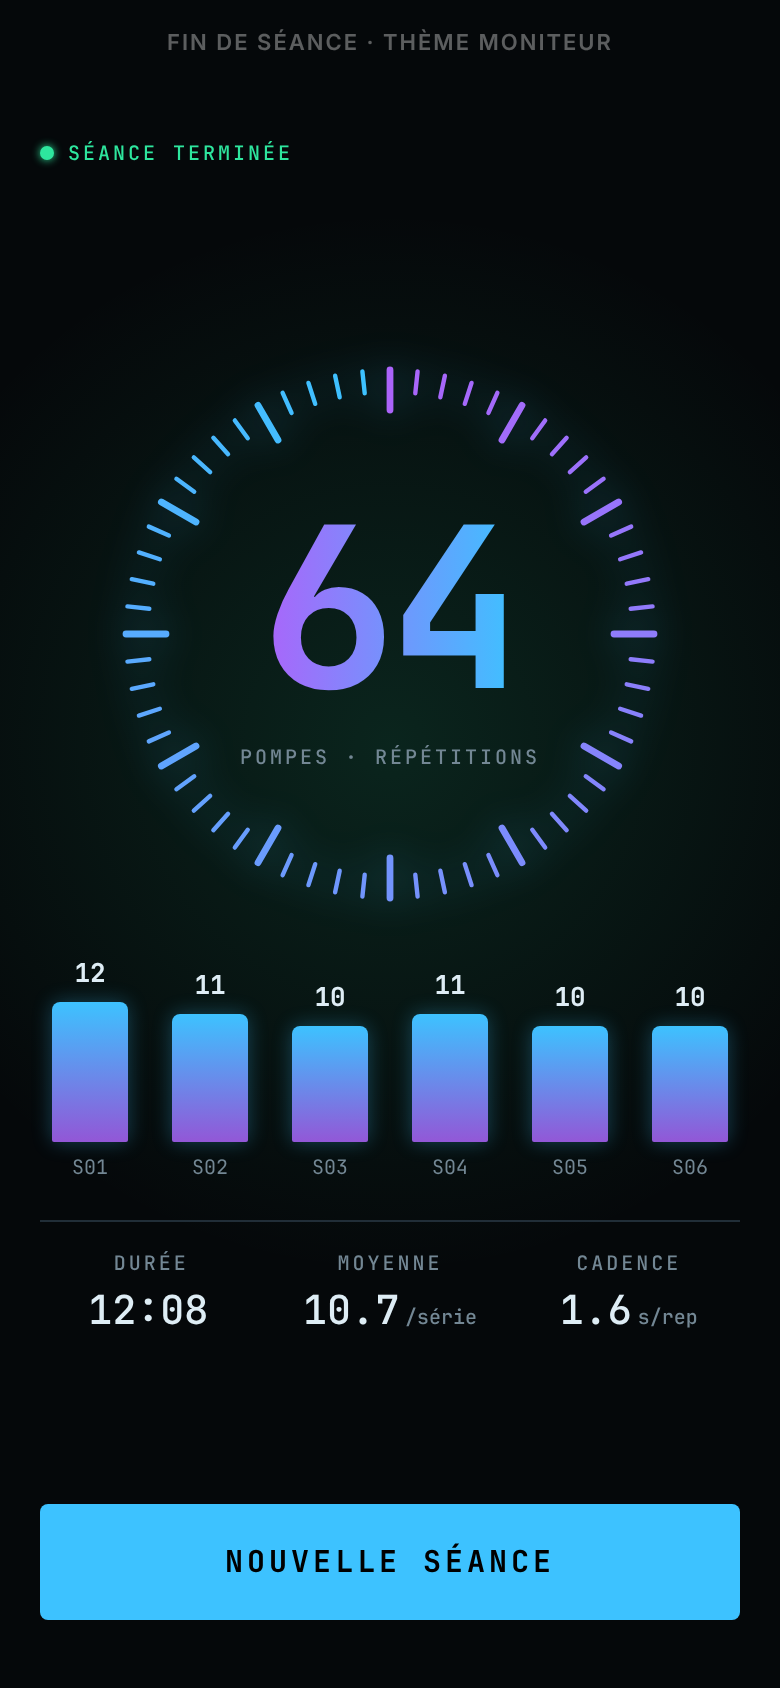
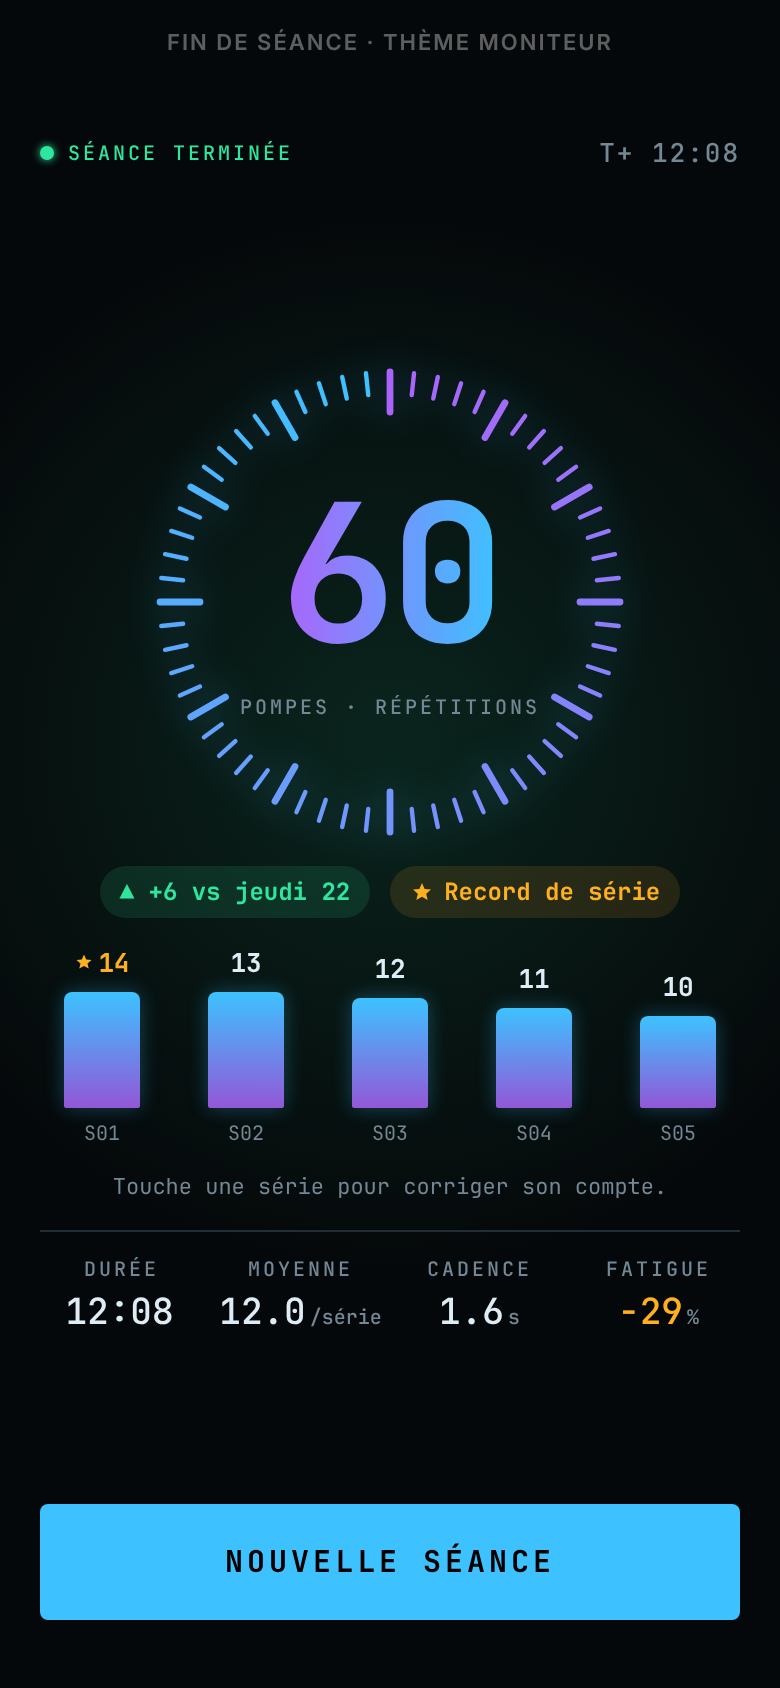
Maquettes de l'historique : fin de séance enrichie, historique, détail d'une séance
Comparaison avec la séance précédente, records, fatigue, correction d'une série ;
historique par exercice (semaine, records, volume, progression, régularité,
séances) ; détail d'une séance (séries, récupérations, rythme rep par rep).
À valider avant implémentation.

Claude-Session: https://claude.ai/code/session_01FagVhaB5BD4mhMTzHfe9fj

diff --git a/Design/mockups/screens.html b/Design/mockups/screens.html
@@ -51,6 +51,11 @@ const ICONS = {
   dumbbell: '<path d="M3 10 H17" stroke-width="2"/><rect x="3.5" y="5.5" width="3.4" height="9" rx="1" stroke="none"/><rect x="13.1" y="5.5" width="3.4" height="9" rx="1" stroke="none"/>',
   sparkles: '<path d="M10 3 L11.5 8.5 L17 10 L11.5 11.5 L10 17 L8.5 11.5 L3 10 L8.5 8.5 Z" stroke="none"/>',
   gear: '<circle cx="10" cy="10" r="2.6" fill="none" stroke-width="1.8"/><path d="M10 2.5 V5 M10 15 V17.5 M2.5 10 H5 M15 10 H17.5 M4.7 4.7 L6.5 6.5 M13.5 13.5 L15.3 15.3 M4.7 15.3 L6.5 13.5 M13.5 6.5 L15.3 4.7" stroke-width="2" stroke-linecap="round"/><circle cx="10" cy="10" r="5.6" fill="none" stroke-width="1.8"/>',
+  chart: '<rect x="3" y="10" width="3" height="7" rx="1" stroke="none"/><rect x="8.5" y="6" width="3" height="11" rx="1" stroke="none"/><rect x="14" y="3" width="3" height="14" rx="1" stroke="none"/>',
+  back: '<path d="M12.5 4.5 L7 10 L12.5 15.5" fill="none" stroke-width="2.2" stroke-linecap="round" stroke-linejoin="round"/>',
+  star: '<path d="M10 2.5 L12.2 7.4 L17.5 7.9 L13.5 11.4 L14.7 16.6 L10 13.9 L5.3 16.6 L6.5 11.4 L2.5 7.9 L7.8 7.4 Z" stroke="none"/>',
+  minus: '<path d="M5 10 H15" stroke-width="2.4" stroke-linecap="round"/>',
+  plus: '<path d="M5 10 H15 M10 5 V15" stroke-width="2.4" stroke-linecap="round"/>',
   chevron: '<path d="M5.5 8 L10 12.5 L14.5 8" fill="none" stroke-width="2" stroke-linecap="round" stroke-linejoin="round"/>',
   xmark: '<path d="M5 5 L15 15 M15 5 L5 15" stroke-width="2" stroke-linecap="round"/>',
   check: '<path d="M5 10.5 L8.5 14 L15 6.5" fill="none" stroke-width="2.4" stroke-linecap="round" stroke-linejoin="round"/>',
@@ -88,9 +93,11 @@ function render(t, s) {
     case "resting": html = resting(); break;
     case "finished": html = finished(); break;
     case "settings": html = settings(); break;
+    case "history": html = history(); break;
+    case "session": html = sessionDetail(); break;
   }
   document.getElementById("screen").innerHTML =
-    `<div class="phone ${t.scheme}" style="background:${backdrop};font-family:${F};color:${c.text}">
+    `<div class="phone ${t.scheme}" style="height:${s.height || 844}px;background:${backdrop};font-family:${F};color:${c.text}">
        <div class="caption">${s.caption || ""} · thème ${t.name}</div>${html}</div>`;
 
   // ——— Cadran ———
@@ -164,7 +171,7 @@ function render(t, s) {
     }).join("");
     const dots = EXERCISES.map((_, i) => `<span style="width:5px;height:5px;border-radius:50%;background:${i === index ? c.primary : hexA(c.dim, .45)}"></span>`).join("");
     const inner = side * 0.76, disc = side * 0.58;
-    return `<div class="top"><span></span>${iconBtn("gear")}</div>
+    return `<div class="top">${iconBtn("chart")}${iconBtn("gear")}</div>
       <div class="hero">
         ${ring({ lit: 60, colors: "pale", sweep: 17, content: `
           <div style="position:relative;width:${side}px;height:${side}px">
@@ -240,24 +247,168 @@ function render(t, s) {
     </div></div>`;
   }
 
+  // Fin de séance : total, comparaison avec la dernière séance, records, séries (corrigeables),
+  // et quatre mesures dont la fatigue.
   function finished() {
-    const sets = s.sets, max = Math.max(...sets);
-    const bars = sets.map((n, i) => `<div class="center" style="flex:1;gap:6px;justify-content:flex-end;height:100%">
-        <span style="font-size:13px;font-weight:700">${n}</span>
-        <div style="width:100%;max-width:38px;height:${Math.round(n / max * 70)}px;border-radius:${Math.min(r, 4)}px ${Math.min(r, 4)}px 1px 1px;
-             background:linear-gradient(180deg,${c.primary},${hexA(c.secondary, .85)});${glow ? `box-shadow:0 0 ${10 * glow}px ${hexA(c.primary, .3)}` : ""}"></div>
-        <span style="font-size:10px;color:${c.dim}">S${String(i + 1).padStart(2, "0")}</span></div>`).join("");
-    const stat = (name, value, unit = "") => `<div class="center" style="flex:1;gap:4px">${label(name)}
-        <span style="font-size:20px;font-weight:600">${value}<span style="font-size:10px;color:${c.dim};margin-left:3px">${unit}</span></span></div>`;
-    return `${status("Séance terminée", c.ok, "")}
-      <div class="hero" style="gap:20px">
-        ${ring({ lit: 60, size: 270, content: `
-          <div style="font-size:112px;font-weight:700;line-height:1;letter-spacing:-3px;background:linear-gradient(90deg,${c.secondary},${c.primary});-webkit-background-clip:text;color:transparent">${s.total}</div>
+    const sets = s.sets, max = Math.max(...sets), editing = s.editing;
+    const bars = sets.map((n, i) => {
+      const on = i === editing, record = s.recordSet === i;
+      return `<div class="center" style="flex:1;gap:6px;justify-content:flex-end;height:100%;position:relative">
+        <span class="row" style="gap:2px;font-size:13px;font-weight:700;color:${record ? c.warn : c.text}">${record ? icon("star", c.warn, 10) : ""}${n}</span>
+        <div style="width:100%;max-width:38px;height:${Math.round(n / max * 64)}px;border-radius:${Math.min(r, 4)}px ${Math.min(r, 4)}px 1px 1px;
+             background:${on ? c.text : `linear-gradient(180deg,${c.primary},${hexA(c.secondary, .85)})`};${glow ? `box-shadow:0 0 ${10 * glow}px ${hexA(c.primary, .3)}` : ""}"></div>
+        <span style="font-size:10px;color:${on ? c.text : c.dim}">S${String(i + 1).padStart(2, "0")}</span></div>`;
+    }).join("");
+    const stat = (name, value, unit = "", color = c.text) => `<div class="center" style="flex:1;gap:4px">${label(name)}
+        <span style="font-size:18px;font-weight:600;color:${color}">${value}<span style="font-size:10px;color:${c.dim};margin-left:2px">${unit}</span></span></div>`;
+    const corrector = editing != null ? `<div class="row" style="justify-content:center;gap:14px;padding:8px 12px;border:1px solid ${c.line};border-radius:${r}px;background:${c.panel}">
+        ${label(`Série ${String(editing + 1).padStart(2, "0")}`, c.text)}
+        <span style="width:36px;height:36px;border-radius:${r}px;border:1px solid ${c.line};display:flex;align-items:center;justify-content:center">${icon("minus", c.text, 14)}</span>
+        <span style="font-size:22px;font-weight:700;min-width:34px;text-align:center">${sets[editing]}</span>
+        <span style="width:36px;height:36px;border-radius:${r}px;border:1px solid ${c.line};display:flex;align-items:center;justify-content:center">${icon("plus", c.text, 14)}</span>
+        <span style="font-size:11px;color:${c.dim}">compté : ${sets[editing] + 1}</span></div>`
+      : `<div style="font-size:11px;color:${c.dim};text-align:center">Touche une série pour corriger son compte.</div>`;
+    return `${status("Séance terminée", c.ok, "T+ 12:08")}
+      <div class="hero" style="gap:14px">
+        ${ring({ lit: 60, size: 236, content: `
+          <div style="font-size:96px;font-weight:700;line-height:1;letter-spacing:-3px;background:linear-gradient(90deg,${c.secondary},${c.primary});-webkit-background-clip:text;color:transparent">${s.total}</div>
           <div style="margin-top:6px">${label(`${ex[1]} · répétitions`)}</div>` })}
-        <div class="row" style="width:100%;height:118px;gap:10px;align-items:flex-end">${bars}</div>
-        <div class="row" style="width:100%;border-top:1px solid ${c.line};padding-top:14px">${stat("Durée", "12:08")}${stat("Moyenne", (s.total / sets.length).toFixed(1), "/série")}${stat("Cadence", "1.6", "s/rep")}</div>
+        <div class="row" style="gap:10px;justify-content:center">
+          <span class="row" style="gap:5px;padding:5px 10px;border-radius:20px;background:${hexA(c.ok, .12)};color:${c.ok};font-size:12px;font-weight:700">▲ +6 vs jeudi 22</span>
+          <span class="row" style="gap:5px;padding:5px 10px;border-radius:20px;background:${hexA(c.warn, .12)};color:${c.warn};font-size:12px;font-weight:700">${icon("star", c.warn, 12)} Record de série</span>
+        </div>
+        <div class="row" style="width:100%;height:100px;gap:10px;align-items:flex-end">${bars}</div>
+        ${corrector}
+        <div class="row" style="width:100%;border-top:1px solid ${c.line};padding-top:12px">${stat("Durée", "12:08")}${stat("Moyenne", (s.total / sets.length).toFixed(1), "/série")}${stat("Cadence", "1.6", "s")}${stat("Fatigue", "−29", "%", c.warn)}</div>
       </div>
       <div class="bottom">${btn("Nouvelle séance", c.primary, true, 58)}</div>`;
+  }
+
+  // ——— Historique ———
+  function panel(title, accessory, body) {
+    return `<div style="padding:14px;border:1px solid ${c.line};border-radius:${r}px;background:${c.panel};display:flex;flex-direction:column;gap:12px">
+      <div class="row" style="justify-content:space-between">${label(title)}${accessory || ""}</div>${body}</div>`;
+  }
+
+  function exerciseBar(selected) {
+    const items = [["Σ", "Tout"], ...EXERCISES.map(e => [e[0], e[1]])];
+    return `<div class="row" style="gap:6px;justify-content:space-between">${items.map(([ic, name], i) => {
+      const on = i === selected;
+      const content = ic === "Σ" ? `<span style="font-size:18px;font-weight:700;color:${on ? c.primary : c.dim}">Σ</span>` : icon(ic, on ? c.primary : c.dim, 22);
+      return `<div style="flex:1;height:46px;border-radius:${Math.max(r, 4) * 2}px;display:flex;align-items:center;justify-content:center;
+        border:1px solid ${on ? c.primary : c.line};background:${on ? hexA(c.primary, .12) : c.panel}">${content}</div>`;
+    }).join("")}</div>
+    <div style="text-align:center;margin-top:-4px">${label(items[selected][1], c.text)}</div>`;
+  }
+
+  function history() {
+    const weeks = [60, 0, 85, 110, 95, 120, 140, 0, 130, 165, 150, 172];
+    const best = Math.max(...weeks), avg = weeks.reduce((a, b) => a + b) / weeks.length;
+    // Cette semaine : cadran + chiffres clés
+    const week = `<div class="row" style="gap:18px">
+        ${ring({ lit: 60, size: 150, content: `<div style="font-size:42px;font-weight:700;line-height:1">172</div><div style="margin-top:4px">${label("reps")}</div>` })}
+        <div style="display:flex;flex-direction:column;gap:10px;flex:1">
+          <div><span style="font-size:20px;font-weight:700;color:${c.ok}">▲ +15 %</span><div style="font-size:11px;color:${c.dim}">vs semaine dernière (150)</div></div>
+          ${[["Séances", "3"], ["Temps", "38 min"], ["Régularité", "6 sem. de suite"]].map(([k, v]) =>
+            `<div class="row" style="justify-content:space-between">${label(k)}<span style="font-size:14px;font-weight:700">${v}</span></div>`).join("")}
+        </div></div>`;
+    // Records
+    const record = (name, value, date, fresh) => `<div style="flex:1;padding:10px;border:1px solid ${fresh ? hexA(c.warn, .6) : c.line};border-radius:${r}px;background:${fresh ? hexA(c.warn, .06) : "transparent"}">
+        ${label(name)}<div class="row" style="gap:4px;margin-top:6px"><span style="font-size:24px;font-weight:700;color:${fresh ? c.warn : c.text}">${value}</span>${fresh ? icon("star", c.warn, 12) : ""}</div>
+        <div style="font-size:10px;color:${c.dim};margin-top:2px">${date}</div></div>`;
+    const records = `<div class="row" style="gap:8px;align-items:stretch">${record("Série", "14", "aujourd'hui", true)}${record("Séance", "72", "12 oct.")}${record("Semaine", "172", "cette semaine", true)}</div>`;
+    // Volume sur 12 semaines
+    const vbars = weeks.map((v, i) => {
+      const last = i === weeks.length - 1;
+      return `<div class="center" style="flex:1;gap:5px;justify-content:flex-end;height:100%">
+        ${last ? `<span style="font-size:10px;font-weight:700">${v}</span>` : ""}
+        <div style="width:100%;max-width:18px;height:${Math.max(2, Math.round(v / best * 78))}px;border-radius:2px 2px 1px 1px;
+          background:${last ? `linear-gradient(180deg,${c.primary},${c.secondary})` : hexA(c.primary, v ? .35 : .15)}"></div>
+        <span style="font-size:9px;color:${c.dim}">${i % 3 === 2 ? ["S35", "S38", "S41", "S44"][(i - 2) / 3] : "&nbsp;"}</span></div>`;
+    }).join("");
+    const volume = `<div style="position:relative;height:112px"><div class="row" style="height:100%;gap:6px;align-items:flex-end">${vbars}</div>
+        <div style="position:absolute;left:0;right:0;bottom:${20 + avg / best * 78}px;border-top:1px dashed ${hexA(c.dim, .6)}"></div>
+        <span style="position:absolute;left:0;bottom:${23 + avg / best * 78}px;font-size:9px;color:${c.dim};background:${c.panel};padding-right:4px">moy. ${Math.round(avg)}</span></div>`;
+    // Progression : moyenne par série (courbe)
+    const avgSeries = [8.2, 8.6, 9.0, 9.1, 9.6, 9.8, 10.1, 10.4, 10.3, 11.0, 11.4, 12.0];
+    const w = 310, h = 70, lo = 7.5, hi = 12.5;
+    const pts = avgSeries.map((v, i) => `${(i / 11 * w).toFixed(1)},${(h - (v - lo) / (hi - lo) * h).toFixed(1)}`);
+    const progression = `<svg width="100%" height="${h + 6}" viewBox="0 -3 ${w} ${h + 6}" preserveAspectRatio="none">
+        <polyline points="${pts.join(" ")}" fill="none" stroke="${c.primary}" stroke-width="2" stroke-linejoin="round"/>
+        ${avgSeries.map((v, i) => `<circle cx="${i / 11 * w}" cy="${h - (v - lo) / (hi - lo) * h}" r="${i === 11 ? 4 : 2}" fill="${c.primary}"/>`).join("")}</svg>
+      <div class="row" style="justify-content:space-between">${[["Moy. / série", "12,0", "+3,8"], ["Cadence", "1,5 s", "−0,2"], ["Fatigue", "−24 %", "+9 pts"]].map(([k, v, d]) =>
+        `<div>${label(k)}<div style="font-size:15px;font-weight:700;margin-top:3px">${v} <span style="font-size:10px;color:${c.ok}">${d}</span></div></div>`).join("")}</div>`;
+    // Régularité : calendrier 16 semaines
+    let seed = 7; const rnd = () => (seed = (seed * 9301 + 49297) % 233280) / 233280;
+    const days = ["L", "M", "M", "J", "V", "S", "D"];
+    let grid = "";
+    for (let d = 0; d < 7; d++) {
+      grid += `<span style="font-size:9px;color:${c.dim};width:10px">${days[d]}</span>`;
+      for (let wk = 0; wk < 16; wk++) {
+        const future = wk === 15 && d > 0;
+        const v = future ? -1 : (rnd() < 0.42 ? Math.ceil(rnd() * 3) : 0);
+        const bg = v < 0 ? "transparent" : v === 0 ? hexA(c.line, .9) : hexA(c.primary, [0, .35, .65, 1][v]);
+        grid += `<span style="width:14px;height:14px;border-radius:3px;background:${bg}"></span>`;
+      }
+    }
+    const calendar = `<div style="display:grid;grid-template-columns:12px repeat(16, 14px);gap:4px;justify-content:space-between">${grid}</div>
+      <div class="row" style="justify-content:space-between;font-size:11px;color:${c.dim}"><span>41 jours actifs sur 106</span>
+        <span class="row" style="gap:3px">moins ${[0, .35, .65, 1].map(a => `<span style="width:9px;height:9px;border-radius:2px;background:${a ? hexA(c.primary, a) : c.line}"></span>`).join("")} plus</span></div>`;
+    // Séances
+    const sessions = [["Lun 26 oct", "19:40", 60, 5, "+6", true], ["Jeu 22 oct", "18:05", 54, 5, "−4"], ["Mar 20 oct", "07:30", 58, 5, "+2"],
+                      ["Sam 17 oct", "10:12", 56, 4, "−16"], ["Lun 12 oct", "19:02", 72, 6, "+14", true], ["Jeu 8 oct", "18:40", 58, 5, "+3"]];
+    const list = sessions.map(([day, hour, total, n, delta, rec], i) => `<div class="row" style="gap:12px;padding:10px 0;${i ? `border-top:1px solid ${c.line}` : ""}">
+        <div style="flex:1"><div style="font-size:14px;font-weight:700">${day}</div><div style="font-size:11px;color:${c.dim}">${hour} · ${n} séries</div></div>
+        ${rec ? icon("star", c.warn, 13) : ""}
+        <span style="font-size:11px;font-weight:700;color:${delta.startsWith("+") ? c.ok : c.dim}">${delta}</span>
+        <span style="font-size:22px;font-weight:700;min-width:36px;text-align:right">${total}</span>
+        ${icon("chevron", c.dim, 12).replace('viewBox="0 0 20 20"', 'viewBox="0 0 20 20" style="transform:rotate(-90deg)"')}</div>`).join("");
+    return `<div class="top"><span style="font-size:16px;font-weight:700;letter-spacing:3px">HISTORIQUE</span>${iconBtn("xmark", c.text)}</div>
+      <div style="display:flex;flex-direction:column;gap:14px;margin-top:10px">
+        ${exerciseBar(1)}
+        ${panel("Cette semaine", label("26 oct. – 1 nov."), week)}
+        ${panel("Records", "", records)}
+        ${panel("Volume · 12 semaines", label("reps / semaine"), volume)}
+        ${panel("Progression · 12 semaines", "", progression)}
+        ${panel("Régularité", label("16 semaines"), calendar)}
+        ${panel("Séances", label("42 au total"), list)}
+      </div>`;
+  }
+
+  // Détail d'une séance : séries, récupérations, rythme rep par rep
+  function sessionDetail() {
+    const sets = [[14, "0:22", "1.5", null], [13, "0:21", "1.6", "1:12"], [12, "0:20", "1.6", "1:30"], [11, "0:19", "1.7", "1:41"], [10, "0:18", "1.8", "1:55"]];
+    const rows = sets.map(([n, d, cad, rest], i) => `<div class="row" style="padding:8px 0;${i ? `border-top:1px solid ${c.line}` : ""};font-size:14px;font-weight:600">
+        <span style="flex:1;color:${c.dim}">S${String(i + 1).padStart(2, "0")}</span>
+        <span style="flex:1;text-align:right;color:${i === 0 ? c.warn : c.text}">${i === 0 ? "★ " : ""}${n}</span>
+        <span style="flex:1;text-align:right">${d}</span><span style="flex:1;text-align:right">${cad} s</span>
+        <span style="flex:1;text-align:right;color:${c.dim}">${rest || "—"}</span></div>`).join("");
+    const head = `<div class="row">${["Série", "Reps", "Durée", "Cadence", "Récup."].map((h, i) => `<span style="flex:1;text-align:${i ? "right" : "left"}">${label(h)}</span>`).join("")}</div>`;
+    // Rythme : durée de chaque rep, série par série (fatigue visible)
+    const w = 310, h = 90, lo = 1.2, hi = 2.3;
+    const series = sets.map(([n], k) => Array.from({ length: n }, (_, i) => 1.35 + k * 0.07 + 0.5 * Math.pow(i / (n - 1), 2.2) + 0.03 * Math.sin(i * 2.1 + k)));
+    let x = 0; const step = w / (sets.reduce((a, [n]) => a + n, 0) + 4);
+    const lines = series.map((reps, k) => {
+      const pts = reps.map((v, i) => `${(x + i * step).toFixed(1)},${(h - (v - lo) / (hi - lo) * h).toFixed(1)}`);
+      const start = x; x += reps.length * step + step;
+      return `<polyline points="${pts.join(" ")}" fill="none" stroke="${mixColor(c.secondary, c.primary, k / 4)}" stroke-width="2" stroke-linejoin="round"/>
+        <text x="${start}" y="${h + 12}" font-size="9" fill="${c.dim}">S${String(k + 1).padStart(2, "0")}</text>`;
+    }).join("");
+    const rhythm = `<svg width="100%" height="${h + 16}" viewBox="0 0 ${w} ${h + 16}">${lines}</svg>
+      <div style="font-size:11px;color:${c.dim};line-height:1.4">Durée de chaque répétition : elle s'allonge en fin de série quand la fatigue arrive.</div>`;
+    return `<div class="top">${iconBtn("back", c.text)}<span style="font-size:13px;font-weight:700;letter-spacing:2px">LUN 26 OCT · 19:40</span><span style="width:40px"></span></div>
+      <div style="display:flex;flex-direction:column;gap:14px;margin-top:10px">
+        <div class="row" style="gap:18px">
+          ${ring({ lit: 60, size: 130, content: `<div style="font-size:40px;font-weight:700;line-height:1">60</div><div style="margin-top:3px">${label("reps")}</div>` })}
+          <div style="display:flex;flex-direction:column;gap:8px;flex:1">
+            <div class="row" style="gap:6px">${icon("pushup", c.primary, 20)}<span style="font-size:14px;font-weight:700;letter-spacing:1.5px">POMPES</span></div>
+            <span style="font-size:13px;font-weight:700;color:${c.ok}">▲ +6 vs jeudi 22</span>
+            <span class="row" style="gap:4px;font-size:12px;font-weight:700;color:${c.warn}">${icon("star", c.warn, 11)} Record de série (14)</span>
+            <span style="font-size:12px;color:${c.dim}">12:08 · 5 séries · fatigue −29 %</span>
+          </div></div>
+        ${panel("Séries", "", head + `<div>${rows}</div>`)}
+        ${panel("Rythme", label("s / rep"), rhythm)}
+      </div>`;
   }
 
   function settings() {

diff --git a/Design/mockups/render.js b/Design/mockups/render.js
@@ -16,7 +16,10 @@ const SCREENS = [
   ["4-detection", { phase: "acquiring", tentative: 2, caption: "Détection 2/3" }],
   ["5-serie", { phase: "counting", reps: 7, total: 19, caption: "Pendant la série" }],
   ["6-recuperation", { phase: "resting", sets: [12, 11, 10, 11, 10, 10], caption: "Récupération" }],
-  ["7-fin", { phase: "finished", total: 64, sets: [12, 11, 10, 11, 10, 10], caption: "Fin de séance" }],
+  ["7-fin", { phase: "finished", total: 60, sets: [14, 13, 12, 11, 10], recordSet: 0, caption: "Fin de séance" }],
+  ["7b-fin-correction", { phase: "finished", total: 60, sets: [14, 13, 12, 11, 10], recordSet: 0, editing: 2, caption: "Correction d'une série" }],
+  ["9-historique", { phase: "history", height: 1720, caption: "Historique (défile)" }],
+  ["10-seance", { phase: "session", caption: "Détail d'une séance" }],
   ["8-reglages", { phase: "settings", audio: "sons", themes, caption: "Réglages (roue dentée)" }],
 ];
 
@@ -33,7 +36,9 @@ const SCREENS = [
   for (const [name, theme, screen] of shots) {
     await page.evaluate(([t, s]) => window.renderScreen(t, s), [theme, screen]);
     await page.waitForTimeout(50);
-    await page.screenshot({ path: path.join(out, `${name}.png`), clip: { x: 0, y: 0, width: 390, height: 844 } });
+    const height = screen.height || 844;
+    await page.setViewportSize({ width: 390, height });
+    await page.screenshot({ path: path.join(out, `${name}.png`), clip: { x: 0, y: 0, width: 390, height } });
   }
   await browser.close();
   console.log(`${shots.length} captures dans ${out}`);
